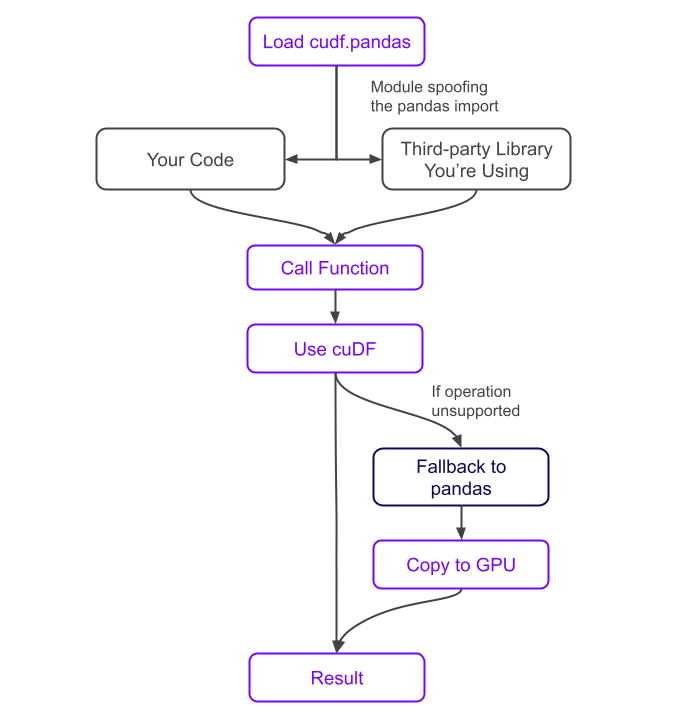
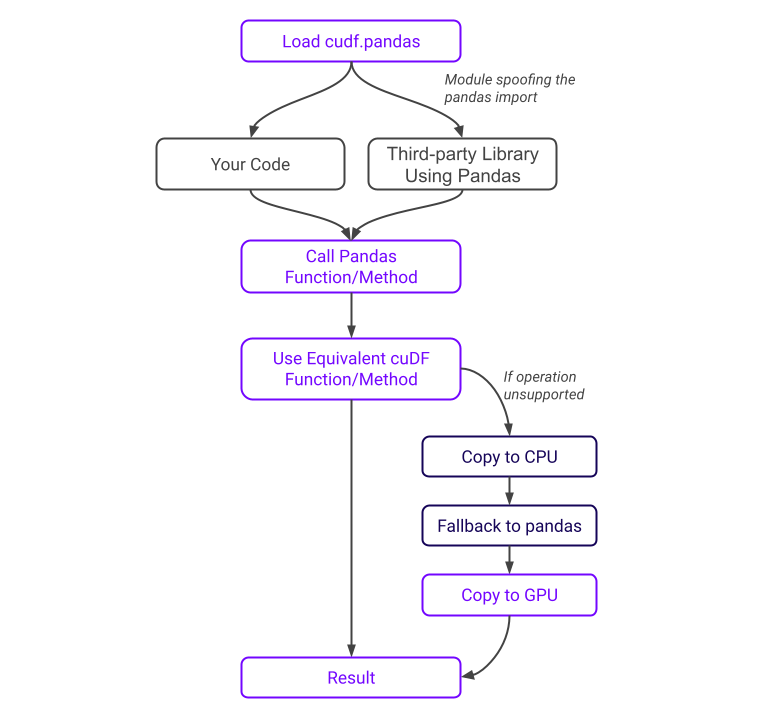
updated copy and layout

Changed region(s): [[0.1248, 0.0, 0.8425, 0.9888], [0.8425, 0.1854, 0.8737, 0.2472], [0.8113, 0.7725, 0.8425, 0.8034]]

diff --git a/content/learn-more/cudf-pandas.html b/content/learn-more/cudf-pandas.html
@@ -9,28 +9,28 @@ description: cuDF Pandas Accelerator Mode
   <!-- Intro -->
   <section class="section mb-6">
     <div class="container">
-      <h1 class="has-text-centered">OPEN BETA: ACCELERATING PANDAS <br> WITH ZERO CODE CHANGE</h1>
+      <h1 class="has-text-centered">OPEN BETA: ACCELERATING PANDAS <br> WITH ZERO CODE CHANGE </h1>
       <p class="subheading has-text-centered mb-8"> A unified CPU/GPU experience that brings best-in-class performance to your Pandas workflows</p>
 
       <div class="columns">
         <div class="column is-one-third">
-          <h2><i class="fa-regular fa-circle-info"></i> Zero Code Change Acceleration </h2>
-          <p>Just load the cuDF IPython/Jupyter Notebook extension or use the cuDF Python module option.</p>
+          <h2><i class="fa-light fa-merge"></i> Zero Code Change Acceleration </h2>
+          <p>Write your code with the full flexibility of pandas. Just load cudf.pandas to accelerate on the GPU, with automatic CPU fallback if needed.</p>
 
-          <br><br>
-          <h2><i class="fa-regular fa-circle-info"></i> One Code Path <br> Differing Hardware</h2>
+          <br>
+          <h2 class="mt-4"><i class="fa-light fa-laptop-binary"></i> One Code Path <br> Differing Hardware </h2>
           <p>Develop, test, and run in production with a single code path, regardless of hardware.</p>
         </div>
         <div class="column is-one-third">
-          <h2><i class="fa-regular fa-chart-user"></i> Third-Party Library Compatible </h2>
-          <p>pandas accelerator mode is compatible with most third-party libraries that operate on pandas objects — it will even accelerate pandas operations within these libraries.</p>
+          <h2><i class="fa-light fa-boxes-stacked"></i> Third-Party Library Compatible </h2>
+          <p>pandas accelerator mode is compatible with most third-party libraries that operate on pandas objects — it will even accelerate pandas operations <strong>within</strong> these libraries.</p>
         
           <br>
-          <h2><i class="fa-regular fa-chart-user"></i> Designed for When Pandas is Too Slow</h2>
-          <p>Keep using pandas rather than learning new frameworks or paradigms as your data grows. Just accelerate it on a GPU.</p>
+          <h2 class="mt-4"><i class="fa-light fa-bolt-lightning"></i> Designed to Accelerate the Entire pandas Ecosystem </h2>
+          <p>Bringing the speed of cuDF to pandas users and the ecosystem built for them. With GPUs, you can keep using pandas as your data grows.</p>
         </div>
         <div class="column is-one-third">
-          <iframe width="560" height="315" src="https://www.youtube.com/embed/i-wpzS9ZsCs?si=LgTFznUmbUS5J4Zk" title="YouTube video player" frameborder="0" allow="accelerometer; autoplay; clipboard-write; encrypted-media; gyroscope; picture-in-picture; web-share" allowfullscreen></iframe>
+          <iframe width="500" height="350" src="https://www.youtube.com/embed/i-wpzS9ZsCs?si=LgTFznUmbUS5J4Zk" title="YouTube video player" frameborder="0" allow="accelerometer; autoplay; clipboard-write; encrypted-media; gyroscope; picture-in-picture; web-share" allowfullscreen></iframe>
         </div>
       </div>
 
@@ -43,35 +43,50 @@ description: cuDF Pandas Accelerator Mode
 
   <section class="section padding-top-slant padding-bottom-slant">
     <div class="container">
-      <h1 class="mb-5"> Bringing the Speed of cuDF <br> to Every Pandas User </h1>
+      <h1 class="mb-4"> Bringing the Speed of cuDF <br> to Every Pandas User </h1>
       <div class="columns">
-        <div class="column is-one-third">
-          <h2><i class="fa-light fa-house-laptop"></i> How it Works </h2>
-          <p>When using cuDF's pandas accelerator mode, operations execute on the GPU where possible and on the CPU otherwise, synchronizing under the hood as needed.</p>
-
-          <br><br>
-
-          <h2><i class="fa-light fa-layer-plus"></i> How to Use It  </h2>
+        <div class="column is-one-half">
+          <h2><i class="fa-light fa-square-info"></i> How to Use It  </h2>
           <p>To accelerate IPython or Jupyter Notebooks, use the magic:</p>
-          <code>%load_ext cudf.pandas <br> import pandas as pd &nbsp;&nbsp;</code>
+          <code>%load_ext cudf.pandas </code> <br>
+          <code>import pandas as pd &nbsp;</code>
           
           <br><br>
 
           <p>To accelerate a Python script, use the Python module flag on the command line:</p>
           <code>python -m cudf.pandas script.py</code>
 
+          <br><br>
+          
+          <p>Or, explicitly enable cudf.pandas via import if you can't use command line flags:</p>
+          <code> import cudf.pandas &nbsp; </code> <br>
+          <code> cudf.pandas.install() </code> <br>
+          <code> import pandas as pd &nbsp;</code>
+      
         </div>
-        <div class="column is-one-third">
-          <h2><i class="fa-light fa-layer-plus"></i> Simple Integration </h2>
-          <img src="/images/Cudf-Pandas.png " class="img-full">
-        </div>
-        <div class="column is-one-third">
-          <h2><i class="fa-light fa-layer-plus"></i> 150X Zero Code Change </h2>
-          <canvas id="perfchart" width="350" height="250"></canvas>
-          <p class="is-size-7 has-text-grey">* GraceHopper GPU vs Intel Xeon Platinum 8480CL CPU</p>
-          <a href="#"  target="_blank">Learn More<i class="fa-solid fa-arrow-up-right"></i> </a>
+        <div class="column is-one-half">
+          <h2><i class="fa-light fa-gauge-high"></i> 150x Faster, Zero Code Change </h2>
+          <canvas id="perfchart" width="200" height="120"></canvas>
+          <p class="is-size-7 has-text-grey">* GraceHopper GPU vs Intel Xeon Platinum 8480CL CPU <a href="#"  target="_blank">Learn More <i class="fa-solid fa-arrow-up-right"></i> </a></p>
         </div>
       </div>
+
+      <h1 class="mt-7 mb-4"> How It Works </h1>
+      <div class="columns">
+        <div class="column is-one-half">
+          <h2><i class="fa-sharp fa-light fa-gear-complex-code"></i> Under the Hood </h2>
+          <p>When using cuDF's pandas accelerator mode, operations execute on the GPU where possible and on the CPU otherwise, synchronizing under the hood as needed.</p>
+          <br>
+          <p>When cudf.pandas is enabled, <strong>import pandas</strong> imports a magic module that dispatches to cuDF or pandas depending on whether the operation can be accelerated by the GPU.</p>
+          <br>
+          <p>This applies to pandas usage in both your code and third-party libraries you're using, ensuring it works with all of your pandas-based tools. </p>
+        </div>
+        <div class="column is-one-half">
+          <h2><i class="fa-light fa-diagram-subtask"></i> Execution Flow </h2>
+          <img src="/images/Cudf-Pandas.png " class="img-full">
+        </div>
+      </div>
+
     </div>
   </section>
 
@@ -87,21 +102,20 @@ description: cuDF Pandas Accelerator Mode
       <h1 class="mb-4">Get Started</h1>
       <div class="columns">
         <div class="column is-one-half">
-          <h2><i class="fa-light fa-cart-shopping-fast"></i> Try Now on Colab</h2>
-          <img src="/images/OpenGoogleColab.png" class="img-w200">
+          <h2><i class="fa-light fa-bookmark"></i> Try Now on Colab</h2>
+          <a href="https://nvda.ws/rapids-cudf" target="_blank"><img src="/images/OpenGoogleColab.png" class="img-w200"></a>
           <h3> <a href="https://nvda.ws/rapids-cudf" target="_blank">LAUNCH Google CoLab <i class="fa-solid fa-arrow-up-right"></i> </a></h3>
-          <p>Take cuDF's new pandas accelerator mode for a test-drive in a free GPU-enabled notebook environment using your Google account. cuDF's pandas accelerator mode works smoothly with all of the other RAPIDS libraries.</p>
+          <p>Take cuDF's new pandas accelerator mode for a test-drive in a free GPU-enabled notebook environment using your Google account.</p>
           <br>
-          <p>Visit the RAPIDS <a href="https://rapids.ai/#quick-start" target="_blank">Quick Start</a> to get started with any RAPIDS library on your favorite platform.</p>
+          <p>cuDF's pandas accelerator mode works smoothly with all of the other RAPIDS libraries. Visit the RAPIDS <a href="https://rapids.ai/#quick-start" target="_blank">Quick Start</a> to get started with any RAPIDS library on your favorite platform.</p>
         </div>
         <div class="column is-one-half">
-          <h2><i class="fa-light fa-bee"></i> Learning More</h2>
-          <p>cuDF Pandas Accelerator Mode is in open beta and under active development <a href="#" target="_blank">Learn More Here <i class="fa-solid fa-arrow-up-right"></i> </a> </p>
-
+          <h2><i class="fa-light fa-head-side-gear"></i> Learn More</h2>
+          <p>cuDF pandas accelerator mode is in open beta and under active development. It's ready for wide use, but has a few known limitations and edge cases. You can <a href="#" target="_blank">learn more through the documentation <i class="fa-solid fa-arrow-up-right"></i> </a> </p>
           <br>
-          <p>Pandas accelerator mode has some known limitations and edge cases <a href="#" target="_blank">Learn More <i class="fa-solid fa-arrow-up-right"></i> </a> </p>
+          <p>Prefer conference presentations to documentation? Get all the details about how cudf.pandas works, how we test it, and why we developed it in the <a href="#" target="_blank">Bringing Zero-Code Change Acceleration to PyData with RAPIDS cuDF and cuML</a> session at the AI and Data Science Virtual Summit. </p>
           <br>
-          <p>Want to contribute or share feedback, reach out <a href="#" target="_blank">On Github <i class="fa-solid fa-arrow-up-right"></i> </a> </p>
+          <p>Want to contribute or share feedback, reach out <a href="#" target="_blank">on GitHub <i class="fa-solid fa-arrow-up-right"></i> </a> </p>
           
         </div>
       </div>
@@ -122,6 +136,7 @@ description: cuDF Pandas Accelerator Mode
           data: {
             labels: ['Join','Advanced groupBy'],
             datasets: [{
+              barPercentage: 0.4,
               label: 'cuDF-pandas vs pandas speedup',
               data: [336,144],
               backgroundColor: [

diff --git a/static/css/custom.css b/static/css/custom.css
@@ -44,12 +44,12 @@ h3 {
 
 h1 {
   font-size: 2.5rem;
-  line-height: 3rem;
+  line-height: 2.5rem;
 }
 
 h2 {
   font-size: 1.7rem;
-  line-height: 2.5rem;
+  line-height: 2rem;
 }
 
 h3 {
